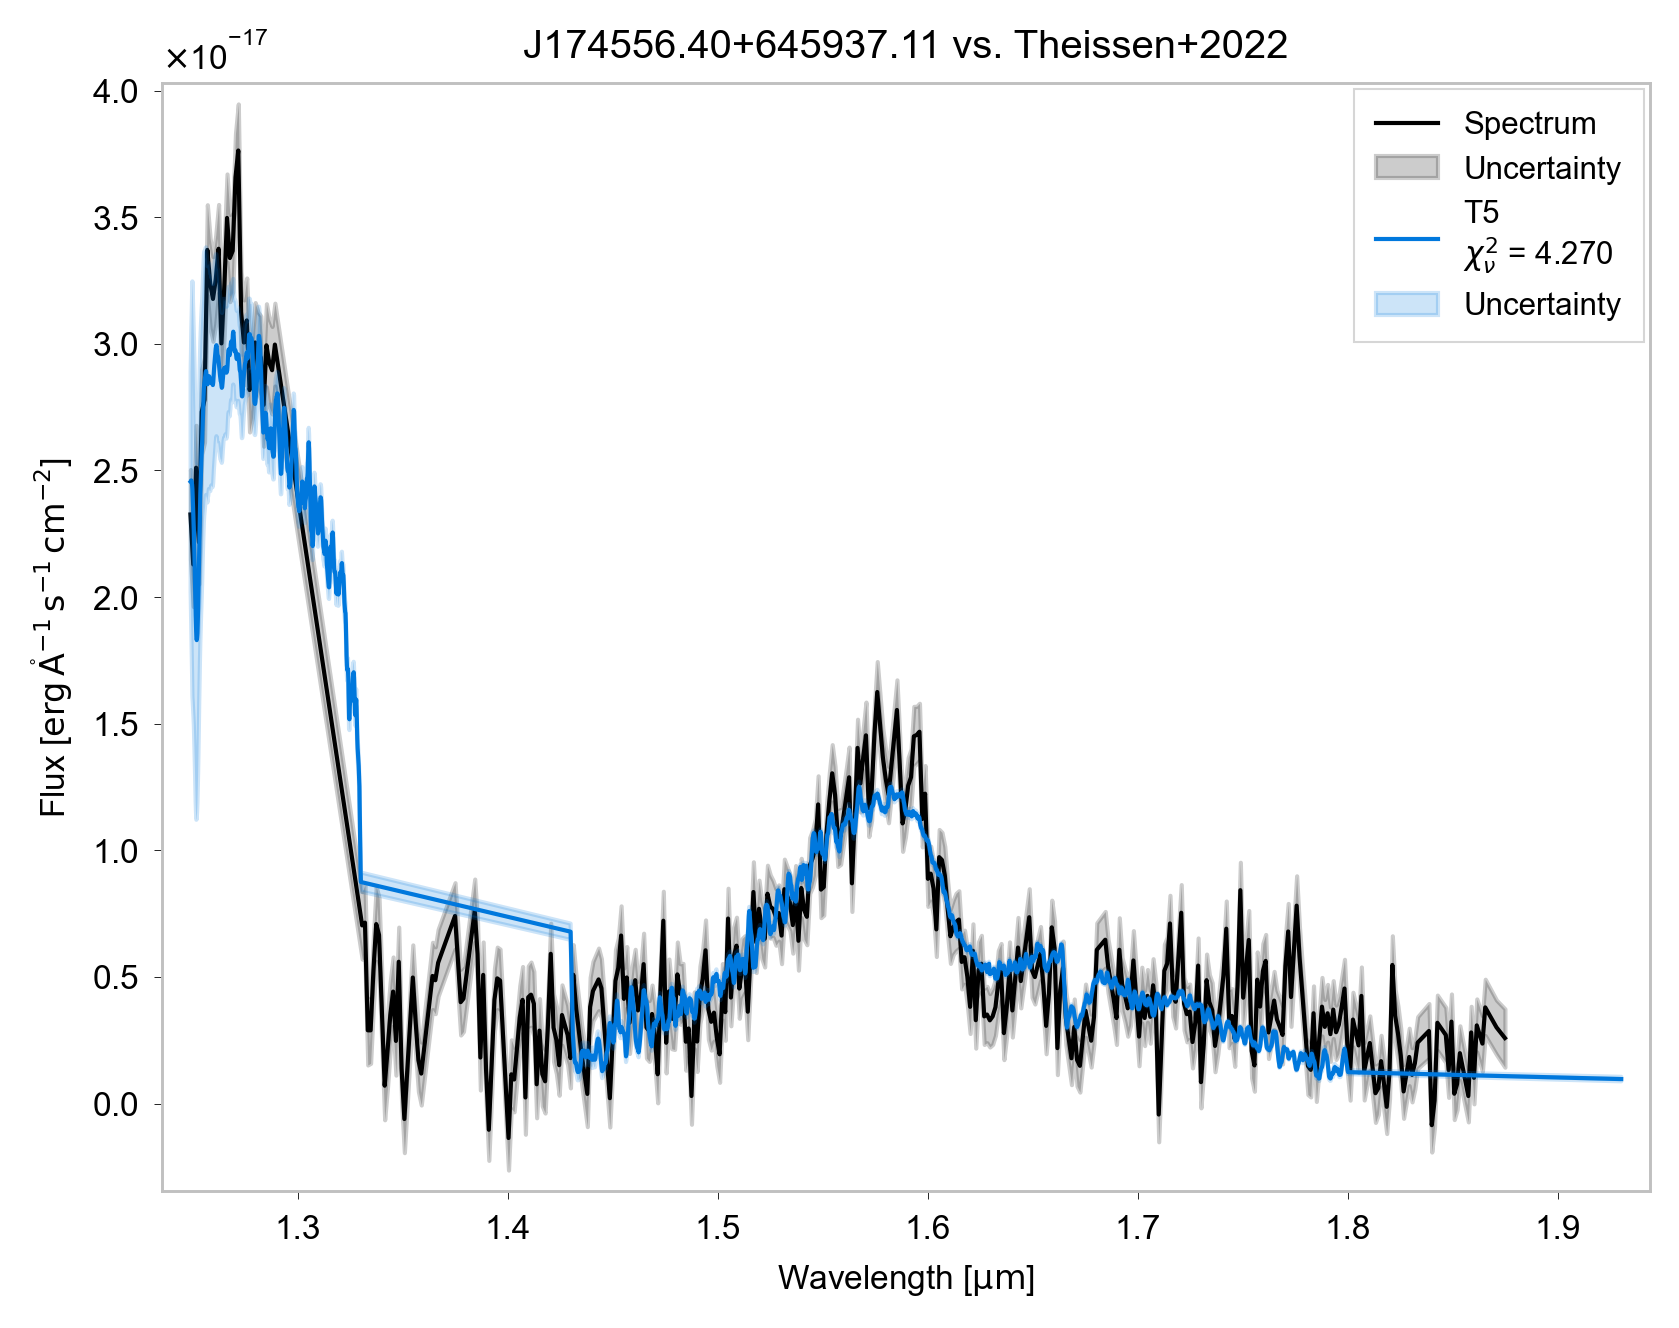
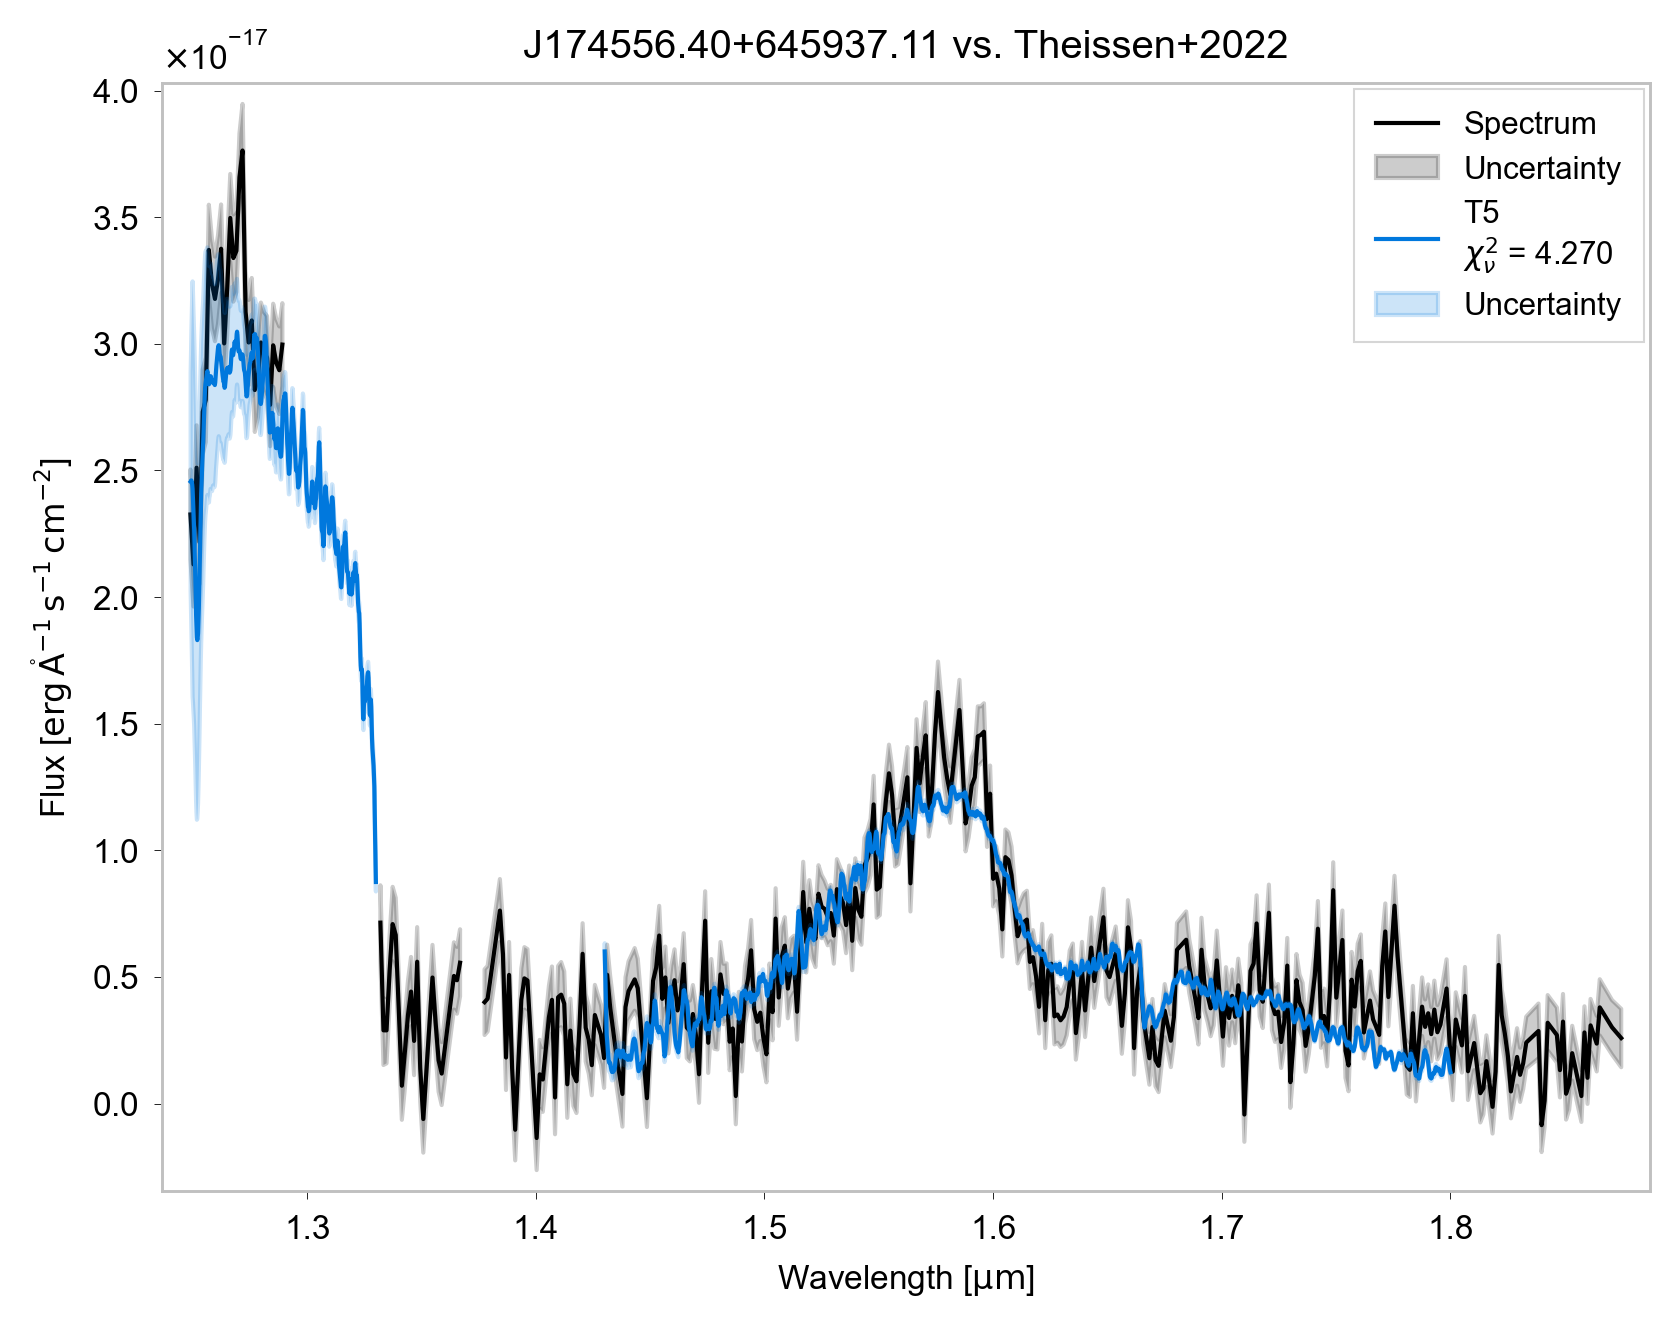
Update examples and README with additional images and spectrum plots

diff --git a/esa_tools_example.py b/esa_tools_example.py
@@ -74,9 +74,13 @@ print_catalog_info()
 # Retrieve objects
 # ------------------------------
 
-# Specify coordinates (RA, Dec) and search radius (arcsec)
+# Define object coordinates
+# ra, dec = 58.1332495, -49.1830038
+# ra, dec = 59.7913643, -47.6826163
 ra, dec = 266.4850113, 64.9936424
-search_radius = 5  # arcsec
+
+# Specify search radius in arcseconds
+search_radius = 5
 
 # Perform cone search for objects
 results = retrieve_objects(ra, dec, search_radius)
@@ -98,11 +102,11 @@ result = results[0]
 object_id = str(result["object_id"])
 
 # Retrieve the spectrum for the selected object
-table = retrieve_spectrum(object_id, mask_bad_values=True)
+table = retrieve_spectrum(object_id, mask_bad_values=False)
 
 if table and len(table) > 0:
     # Plot the spectrum if data is available
-    plot_spectrum(table, ra, dec, plot_format="pdf")
+    plot_spectrum(table, ra, dec, plot_format="png")
 
 # ------------------------------
 # Retrieve cutouts
@@ -125,4 +129,4 @@ images.append({"hdu": j_hdu, "band": "J", "rgb": None})
 images.append({"hdu": h_hdu, "band": "H", "rgb": "r"})
 
 # Plot the images in a multi-band format and save the plot as a PDF
-plot_images(ra, dec, images, cutout_size, plot_format="pdf")
+plot_images(ra, dec, images, cutout_size, plot_format="png")

diff --git a/compare_spectrum_example.py b/compare_spectrum_example.py
@@ -55,9 +55,13 @@ warnings.simplefilter("ignore", category=AstropyWarning)
 # Compare spectrum to templates
 # ------------------------------
 
-# Coordinates for the object of interest
+# Define object coordinates
+# ra, dec = 58.1332495, -49.1830038
+# ra, dec = 59.7913643, -47.6826163
 ra, dec = 266.4850113, 64.9936424
-search_radius = 5  # arcsec
+
+# Specify search radius in arcseconds
+search_radius = 5
 
 # Retrieve objects based on coordinates
 results = retrieve_objects(ra, dec, search_radius)
@@ -107,7 +111,7 @@ if results:
         sed.plot(
             reference_on_top=False,
             spec_uncertainty=True,
-            plot_format="pdf",
+            plot_format="png",
         )
     else:
         print("No spectrum found for the given object ID")

diff --git a/irsa_tools_example.py b/irsa_tools_example.py
@@ -74,9 +74,13 @@ print_catalog_info()
 # Retrieve objects
 # ------------------------------
 
-# Specify coordinates (RA, Dec) and search radius (arcsec)
+# Define object coordinates
+# ra, dec = 58.1332495, -49.1830038
+# ra, dec = 59.7913643, -47.6826163
 ra, dec = 266.4850113, 64.9936424
-search_radius = 5  # arcsec
+
+# Specify search radius in arcseconds
+search_radius = 5
 
 # Perform cone search for objects
 results = retrieve_objects(ra, dec, search_radius)

diff --git a/README.md b/README.md
@@ -154,6 +154,8 @@ from euclid_tools.esa_tools import retrieve_objects, retrieve_spectrum
 from euclid_tools.spectrum_plotter import plot_spectrum
 
 # Define object coordinates
+# ra, dec = 58.1332495, -49.1830038
+# ra, dec = 59.7913643, -47.6826163
 ra, dec = 266.4850113, 64.9936424
 
 # Search radius (arcsec)
@@ -174,7 +176,9 @@ if results:
 else:
     print("No object found for the given coordinates and radius.")
 ```
-![Spectrum](example_plots/J174556.40+645937.11_spectrum.png)
+![Spectrum1](example_plots/J035231.98-491058.81_spectrum.png)
+![Spectrum2](example_plots/J035909.93-474057.42_spectrum.png)
+![Spectrum3](example_plots/J174556.40+645937.11_spectrum.png)
 
 ### Example 2: Retrieving and Plotting Image Cutouts
 
@@ -185,6 +189,8 @@ from euclid_tools.esa_tools import retrieve_cutout
 from euclid_tools.image_plotter import plot_images
 
 # Define object coordinates and cutout size (arcsec)
+# ra, dec = 58.1332495, -49.1830038
+# ra, dec = 59.7913643, -47.6826163
 ra, dec = 266.4850113, 64.9936424
 cutout_size = 20  # arcsec
 
@@ -206,7 +212,9 @@ images = [
 # Plot the images in a single figure
 plot_images(ra, dec, images, cutout_size, plot_format="pdf")
 ```
-![Images](example_plots/J174556.40+645937.11_images.png)
+![Images1](example_plots/J035231.98-491058.81_images.png)
+![Images2](example_plots/J035909.93-474057.42_images.png)
+![Images3](example_plots/J174556.40+645937.11_images.png)
 
 ### Example 3: Compare Spectrum to Template Using `flux_comp`
 
@@ -236,7 +244,9 @@ sed.compare(spectrum, templates, trim_wave=True, metric="reduced-chi2")
 sed.to_flux_lambda()
 sed.plot(reference_on_top=False, spec_uncertainty=True)
 ```
-![Comparison](example_plots/J174556.40+645937.11_vs._Theissen+2022.png)
+![Comparison1](example_plots/J035231.98-491058.81_vs._Theissen+2022.png)
+![Comparison2](example_plots/J035909.93-474057.42_vs._Theissen+2022.png)
+![Comparison3](example_plots/J174556.40+645937.11_vs._Theissen+2022.png)
 
 ## Installation
 
